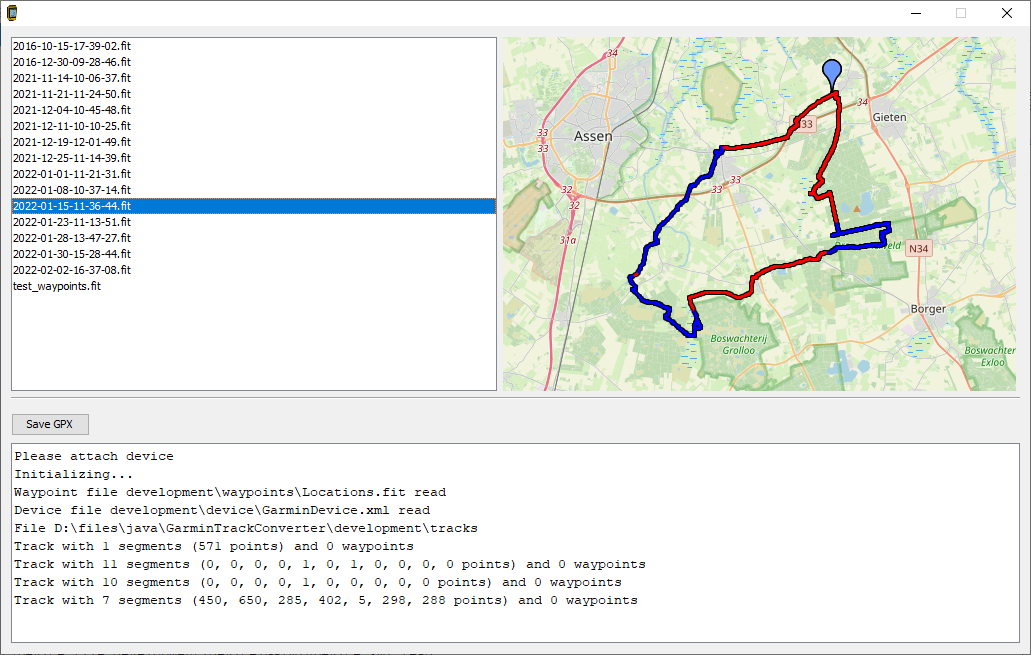
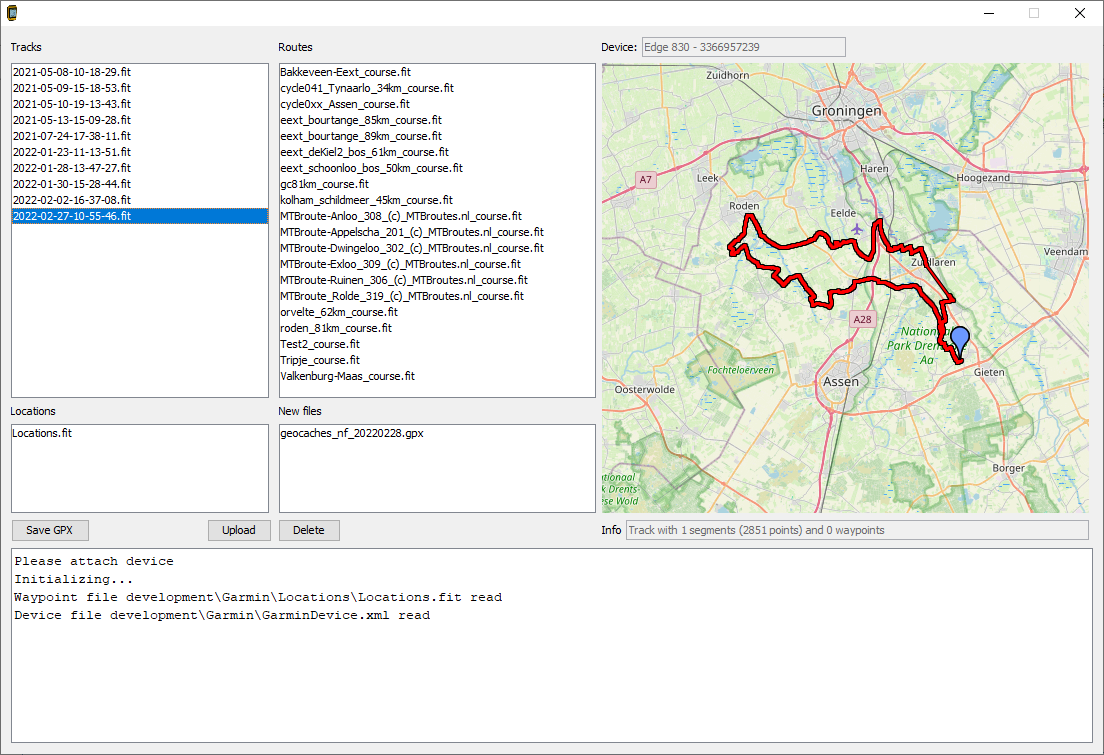
Documentation update

diff --git a/README.md b/README.md
@@ -57,6 +57,23 @@ It requires from the device:
 ## Executing
 Go to /target directory. Run 'java -jar GarminTrackConverter<x.y>.jar, where x.y is the version. There is also a jar file containing all depenedencies.
 
+If all is configured properly, you see four panels to the left, one map panel to the right and one info box at the bottom.
+
+The four panels represent:
+* The logged activities (top left)
+* The courses on the the device (top right)
+* The logged waypoints file (bottom left)
+* The new uploaded files (bottom right)
+
+Clicking any of the files shown shows the contents on the map on the right side of the screen.
+
+Buttons: 
+* Save GPX: saves the last clicked track/activity
+* Upload: Uploads a .gpx file containing trk, rte or wpt
+* Delete: Delete the selected file
+
+Note that this program has only be tested with the Garmin **Edge810** and **Edge830** bike computers. 
+
 ## Development
 The software was developed using Apache Netbeans. The Maven project can be run or debugged from Netbeans. For developement, a directory /development is available. It contains in /development/Garmin a copy of the filestructure from a Garmin Edge830 device, including some logged activities, courses and locations. The folder /development/gpx can be used to store GPX files.
 
